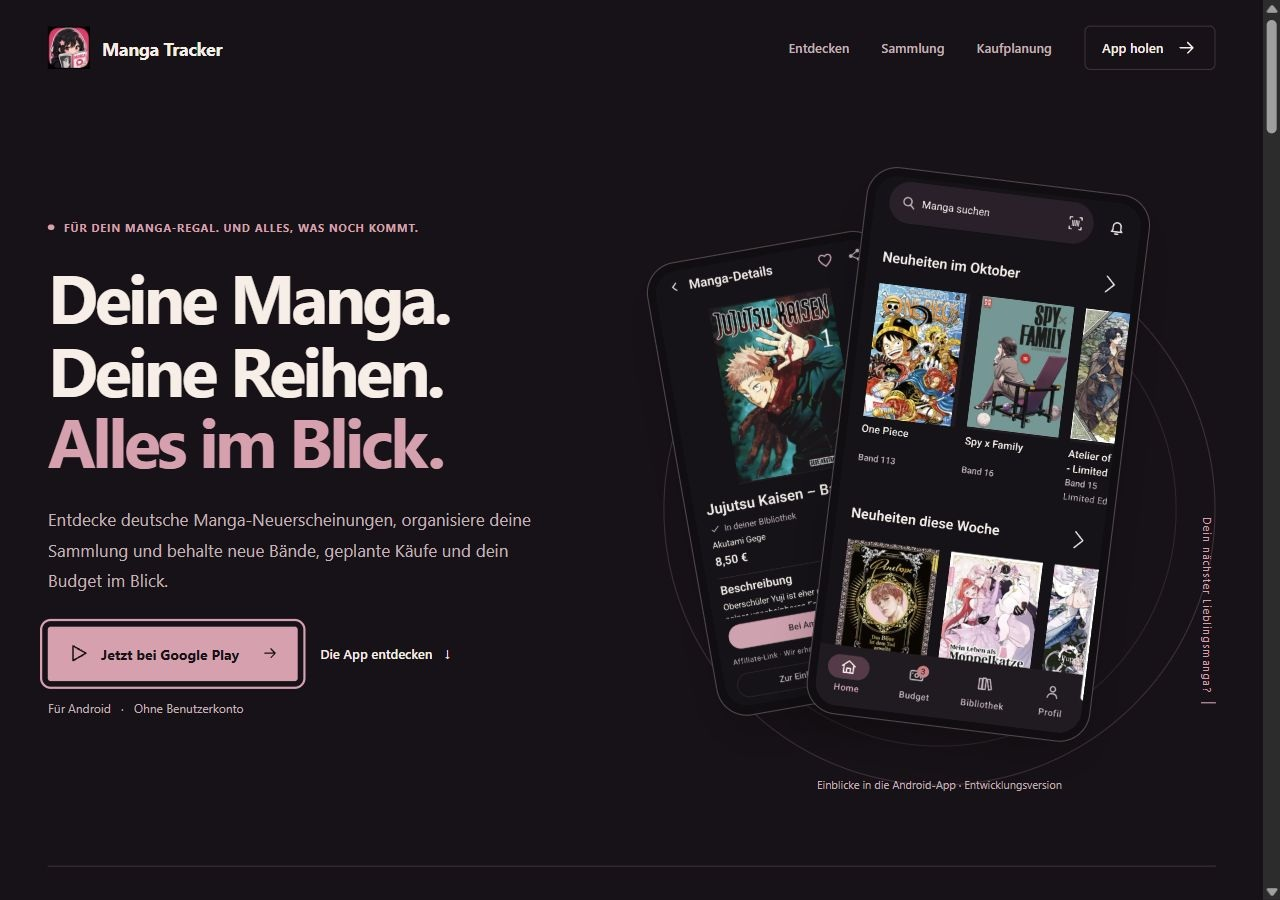
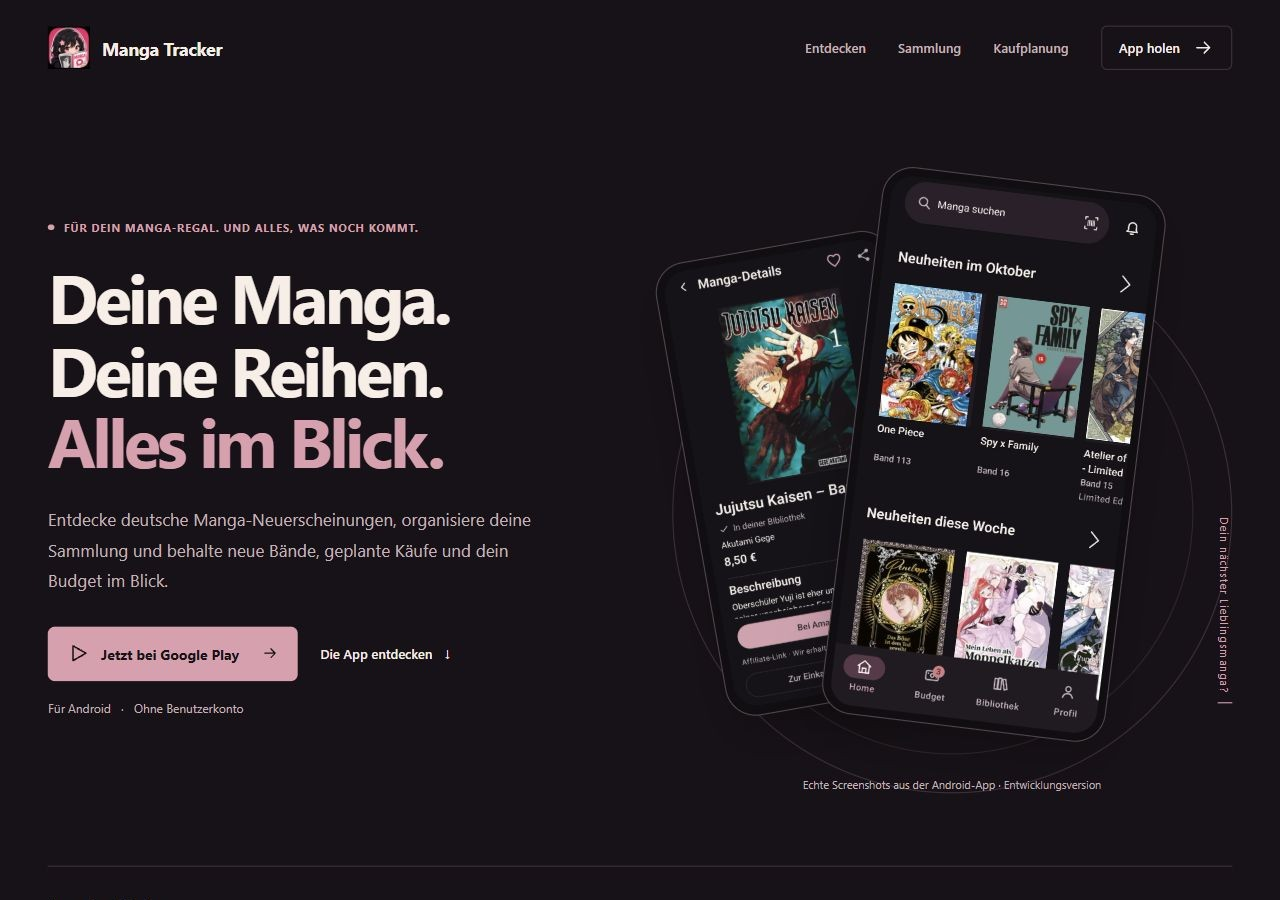
feat: add authentic notification screenshot and provenance labels [skip ci]

diff --git a/manga-share-worker/src/landing.js b/manga-share-worker/src/landing.js
@@ -2,7 +2,7 @@ import { LANDING_STYLES } from "./landing-styles.js";
 
 export const LANDING_ASSETS = new Set([
   "app-icon.png", "app-icon-source.png", "collection-mascot.webp", "releases.webp", "library.webp",
-  "series.webp", "series-status.webp", "detail.webp", "budget.webp", "shopping.webp",
+  "series.webp", "series-status.webp", "detail.webp", "budget.webp", "shopping.webp", "notifications.webp",
 ].map((name) => `/landing/${name}`));
 
 const PLAY = "https://play.google.com/store/apps/details?id=eu.realityforge.mangatracker";
@@ -64,7 +64,7 @@ export function renderLandingPage(origin) {
         <div class="visual-label" aria-hidden="true">Dein nächster Lieblingsmanga?</div>
         ${phone("detail", "Manga-Detailansicht von Jujutsu Kaisen in der Android-Entwicklungsversion", { className: "hero-back" })}
         ${phone("releases", "Echte Android-App: Neuheiten im Oktober mit One Piece und Spy x Family", { hero: true, className: "hero-front" })}
-        <figcaption>Einblicke in die Android-App · Entwicklungsversion</figcaption>
+        <figcaption>Echte Screenshots aus der Android-App · Entwicklungsversion</figcaption>
       </figure>
     </section>
     <div class="chapter-nav wrap" aria-label="Die App im Überblick"><span>Vom ersten Entdecken<br><strong>bis zum vollständigen Regal.</strong></span><a href="#entdecken"><b>01</b> Entdecken</a><a href="#sammlung"><b>02</b> Sammeln</a><a href="#planung"><b>03</b> Planen</a></div>
@@ -87,12 +87,12 @@ export function renderLandingPage(origin) {
 
     <section id="planung" class="planning wrap section" aria-labelledby="planning-title">
       <div class="section-heading"><p class="eyebrow">03 / Vorfreude mit einem Plan</p><h2 id="planning-title">Deine nächsten Käufe.<br><em>Gut geplant.</em></h2><p>Halte fest, welche Manga du als Nächstes kaufen möchtest. Ein Monatsbudget hilft dir, geplante Käufe und den verfügbaren Betrag zusammen zu sehen.</p></div>
-      <div class="planning-grid"><figure>${phone("budget", "Einkaufsliste für One Piece, Jujutsu Kaisen und Spy x Family mit einem Test-Monatsbudget von 60 Euro")}<figcaption>Einkaufsliste & Monatsbudget · Testdaten</figcaption></figure><div class="planning-copy"><h3>Deine Wunschbände.<br>Dein Monatsbudget.</h3><p>Speichere interessante Manga für später und ordne geplante Käufe einem Monat zu. So bleibt neben deinem nächsten Band auch dein Budget im Blick.</p><div class="notification-copy"><span class="tiny-label">Passend zu deiner Sammlung</span><h3>Neue Bände?<br>Bleib auf dem Laufenden.</h3><p>Persönliche Hinweise in der App helfen dir, neue Bände deiner Reihen und Änderungen an Erscheinungsterminen zu bemerken.</p><span class="preview-badge">Erweiterte Bandhinweise in Entwicklung</span><p class="small">Die erweiterten sammlungsbezogenen Bandhinweise werden weiterentwickelt.</p></div></div><figure class="notification-shot">${phone("shopping", "Echte Einkaufsliste mit geplanten Käufen von One Piece, Spy x Family und Jujutsu Kaisen")}<figcaption>Deine geplanten Käufe · Testdaten</figcaption></figure></div>
+      <div class="planning-grid"><figure>${phone("budget", "Einkaufsliste für One Piece, Jujutsu Kaisen und Spy x Family mit einem Test-Monatsbudget von 60 Euro")}<figcaption>Einkaufsliste & Monatsbudget · Testdaten</figcaption></figure><div class="planning-copy"><h3>Deine Wunschbände.<br>Dein Monatsbudget.</h3><p>Speichere interessante Manga für später und ordne geplante Käufe einem Monat zu. So bleibt neben deinem nächsten Band auch dein Budget im Blick.</p><div class="notification-copy"><span class="tiny-label">Passend zu deiner Sammlung</span><h3>Neue Bände?<br>Bleib auf dem Laufenden.</h3><p>Persönliche Hinweise in der App helfen dir, neue Bände deiner Reihen und Änderungen an Erscheinungsterminen zu bemerken.</p><span class="preview-badge">Erweiterte Bandhinweise in Entwicklung</span><p class="small">Die erweiterten sammlungsbezogenen Bandhinweise werden weiterentwickelt.</p></div></div><figure id="benachrichtigungen" class="notification-shot">${phone("notifications", "Echter App-Screenshot: Benachrichtigungen für One Piece, Jujutsu Kaisen und Spy x Family mit simulierten Beispielmeldungen, Status und Terminen")}<figcaption>Echter App-Screenshot · Entwicklungsvorschau<br>Simulierte Beispieldaten: Meldungen, Status und Termine</figcaption></figure></div>
     </section>
 
     <section class="trust wrap section" aria-labelledby="trust-title"><div><p class="eyebrow">Für deine Sammlung gemacht</p><h2 id="trust-title">Deine Manga.<br><em>Deine Daten.</em></h2></div><dl><div><dt>Ohne Benutzerkonto</dt><dd>Starte mit deiner Sammlung, ohne ein Konto anzulegen.</dd></div><div><dt>Auf deinem Gerät</dt><dd>Bibliothek, Einkaufsliste und Budget werden lokal verwaltet.</dd></div><div><dt>Kostenlos nutzbar</dt><dd>Entdecken, sammeln und planen – kostenlos mit der Android-App.</dd></div><div><dt>Für deutsche Manga-Sammler</dt><dd>Deutsche Ausgaben und Neuerscheinungen stehen im Mittelpunkt.</dd></div></dl></section>
     <section id="download" class="download wrap" aria-labelledby="download-title"><div class="download-copy"><img class="download-icon" src="/landing/app-icon.png" alt="Originales Manga-Tracker-App-Icon" width="192" height="192" loading="lazy"><p class="eyebrow">Dein Regal hat noch Platz für Geschichten.</p><h2 id="download-title">Bereit für deinen<br><em>nächsten Band?</em></h2><p>Manga Tracker begleitet deine Sammlung – vom ersten Entdecken bis zum nächsten Manga im Regal.</p>${cta()}<p class="small">Die aktuell verfügbare Version findest du bei Google Play.</p></div><img class="mascot" src="/landing/collection-mascot.webp" alt="" width="683" height="1024" loading="lazy" decoding="async"></section>
-    <p class="version-note wrap">Die App-Screenshots zeigen die Android-Entwicklungsversion 1.0.1-compose mit Beispieldaten. Darstellung und Funktionen können vom aktuellen Google-Play-Release abweichen. Vorschaufunktionen sind entsprechend gekennzeichnet.</p>
+    <p class="version-note wrap">Alle Screenshots wurden direkt in der echten Android-App aufgenommen. Sie zeigen die Android-Entwicklungsversion 1.0.1-compose mit Beispieldaten. Darstellung und Funktionen können vom aktuellen Google-Play-Release abweichen. Vorschaufunktionen sind entsprechend gekennzeichnet.</p>
   </main>
   <footer class="footer wrap"><a class="brand" href="/" aria-label="Manga Tracker Startseite"><img src="/landing/app-icon.png" alt="" width="192" height="192"><span>Manga Tracker</span></a><p>Eine App von RealityForge GbR</p><nav aria-label="Rechtliches"><a href="https://realityforge.eu/legal-notice/">Impressum</a><a href="https://realityforge.eu/privacy-policy/">Datenschutz Website</a><a href="https://realityforge.eu/privacy-policy/manga-tracker/">Datenschutz App</a></nav></footer>
 </body></html>`;

diff --git a/manga-share-worker/test/landing.test.js b/manga-share-worker/test/landing.test.js
@@ -26,7 +26,11 @@ test("homepage works independently of unavailable API and assets bindings", asyn
       assert.match(html, /prefers-reduced-motion:reduce/);
       assert.match(html, /a:focus-visible/);
       assert.doesNotMatch(html, /<script\b|<iframe\b|<form\b|google-analytics|googletagmanager|fonts\.googleapis|fbq\(/i);
-      assert.doesNotMatch(html, /Hanako|notifications\.webp/);
+      assert.doesNotMatch(html, /Hanako/);
+      assert.match(html, /Alle Screenshots wurden direkt in der echten Android-App aufgenommen/);
+      assert.match(html, /Echte Screenshots aus der Android-App/);
+      assert.match(html, /src="\/landing\/notifications\.webp"/);
+      assert.match(html, /Echter App-Screenshot · Entwicklungsvorschau<br>Simulierte Beispieldaten: Meldungen, Status und Termine/);
       const expectedOrigin = origin.startsWith("http:") ? "https://mangatracker.de" : origin;
       assert.ok(html.includes(`<link rel="canonical" href="${expectedOrigin}/">`));
       assert.ok(html.includes(`property="og:image" content="${expectedOrigin}/landing/app-icon-source.png"`));
@@ -80,7 +84,7 @@ test("only approved static assets are served, with GET/HEAD, security headers an
 
 test("screenshot provenance checksums match optimized assets; original app icons remain unchanged", () => {
   const manifest = JSON.parse(readFileSync(new URL("../docs/landing-assets.json", import.meta.url)));
-  assert.equal(manifest.length, 7);
+  assert.equal(manifest.length, 8);
   for (const asset of manifest) {
     const path = `/landing/${asset.file}`;
     assert.ok(LANDING_ASSETS.has(path));

diff --git a/manga-share-worker/src/landing-styles.js b/manga-share-worker/src/landing-styles.js
@@ -718,7 +718,11 @@ h3 {
     grid-template-columns:.85fr 1.15fr
   }
   .notification-shot {
-    display:none
+    display:block;
+    grid-column:1/-1;
+    justify-self:center;
+    width:250px;
+    margin-top:0
   }
   .notification-copy {
     margin-top:30px

diff --git a/manga-share-worker/docs/landing-review.md b/manga-share-worker/docs/landing-review.md
@@ -11,6 +11,8 @@ Die Startseite verwendet die App-Farben #171217, #211A22, #D7A0AF,
 drei Kapitel für Entdecken/Sammeln/Planen und die originale App-Figur bilden
 den Seitenaufbau. Alle Bildinhalte stammen aus der App; keine neu erzeugten
 Illustrationen, erfundenen Oberflächen, Bewertungen oder Nutzerzahlen.
+Am Hero und im allgemeinen Screenshot-Hinweis ist ausdrücklich erkennbar,
+dass alle Screenshots direkt in der echten Android-App aufgenommen wurden.
 
 Die Trust-Texte beziehen sich auf die tatsächlich vorhandenen Kernfunktionen:
 Neuerscheinungen, lokale Bibliothek, Einkaufsliste und Budget. Der öffentliche
@@ -84,13 +86,36 @@ Hanako wird auf der Landingpage nicht verwendet.
 | `detail.webp` | Jujutsu Kaisen, Band 1, ISBN 9782889510825 |
 | `budget.webp` | Monatsbudget und tatsächliche Test-Kaufplanung |
 | `shopping.webp` | Die drei geplanten Testkäufe |
+| `notifications.webp` | Echte Benachrichtigungsansicht mit isolierten, simulierten Beispielmeldungen |
 
-Der reale Benachrichtigungseingang blieb für diese Testsammlung leer. Es wurde
-kein gefüllter Eingang erfunden oder aus manuell verfassten Meldungen erzeugt.
-Der installierte normale App-Pfad verwendet `pushEnabled=true`; sein lokaler
-Legacy-Recommendation-Refresh ist deshalb deaktiviert. Eine Änderung an diesem
-Android-Verhalten gehört nicht zum Website-Auftrag. Die Landingpage beschreibt
-die Hinweise, verwendet aber keinen Benachrichtigungs-Screenshot.
+Der Nutzer hat anschließend einen gefüllten Benachrichtigungs-Screenshot mit
+simulierten Beispieldaten ausdrücklich angefordert. Der ausführende Codex-Chat
+„Prüfe PR-Kette vor Integration“ im Projekt Androidstudio-Manga-Tracker hat ihn
+am 12.10.2026 um 12:37:29 CEST auf demselben Samsung aufgenommen. Verwendet
+wurde dieselbe installierte Debug-App und derselbe APK-Fingerprint wie oben.
+Die echte `NotificationScreen` mit Room/Paging und Original-Artwork wurde in
+einer isolierten In-Memory-Testfixture verwendet; das Bild wurde nicht montiert
+oder nachgezeichnet. Original-PNG: 1080×2400, SHA-256
[1 lines of base64/hex data omitted]
+
+Sichtbare Beispielinhalte: One Piece 111 (fehlend), Jujutsu Kaisen 29
+(Einkaufsliste), Spy x Family 15 (Sammlung), ein Collector-Arc-Achievement,
+One Piece 89 (Terminverschiebung), Jujutsu Kaisen 27 (fehlend), Spy x Family 14
+(Einkaufsliste) und ein teilweise sichtbares weiteres Achievement. Cover und
+Figuren sind echte VLB-/App-Assets. Meldungen, Status, Achievement-Vergaben,
+relative Zeiten und die Terminverschiebung sind simuliert. Insbesondere die
+Termine 15./29.10.2026 zu One Piece 89 sind keine reale Verlagsankündigung.
+Die Bildunterschrift nennt ausdrücklich „Echter App-Screenshot“ und
+„Simulierte Beispieldaten: Meldungen, Status und Termine“.
+
+Der Screenshot-Agent bestätigt: persönliche Debug-Daten wurden nicht ersetzt;
+die isolierte Fixture und temporären Gerätedateien wurden entfernt. Persönliche
+Datenbank, WAL, Preferences und Datastores blieben unverändert, abgesehen von
+zulässigen Android-Activity-Metadaten und SQLite-SHM. Die ursprüngliche Test-APK
+wurde wiederhergestellt. Die Play-Store-App blieb unangetastet. Nachweise liegen
+im ignorierten Android-Verzeichnis `.tmp/website-notification-shot-20261012/`
+(`README.md`, `cover-provenance.json`, `final-proof.json`). Es wurde dafür kein
+Android-Produktcode geändert und kein Commit, Deployment oder Workflow gestartet.
 
 Originale Screenshots: 1080×2400. Zulässige Verarbeitung: Zuschnitt
 `(0,110)–(1080,2260)` entfernt Android-Status- und Systemnavigationsleiste;
@@ -99,7 +124,7 @@ Zahlenwert wurde retuschiert. Die CSS-Rahmen sind reine Website-Darstellung.
 Original- und Ergebnis-SHA-256, Zuschnitt, Dimensionen und Dateigrößen stehen in
 [landing-assets.json](landing-assets.json).
 
-Die private Debug-Sicherung liegt ausschließlich im ignorierten `.local/` und
+Für die ersten sieben Aufnahmen liegt die private Debug-Sicherung ausschließlich im ignorierten `.local/` und
 gehört nicht in Git oder die öffentlichen Assets. Nach der Aufnahme wurden
 alle elf gesicherten Datenbank-/Preferences-Dateien byteweise identisch
 wiederhergestellt. Die Debug-App wurde danach gestoppt. Keine Neuinstallation;
@@ -118,14 +143,19 @@ Vorschau: `http://127.0.0.1:4173/`. Sie verwendet denselben `handleRequest`
 wie der Worker und lokale Asset-Dateien. Die Startseite bleibt API-unabhängig;
 eine lokal geöffnete Manga-Detailseite liest die bestehende öffentliche API.
 Der Server bindet ausschließlich an Loopback, verwendet keine Cloudflare-
-Preview-Deployments und startet keine Actions. Er wird nach der QA beendet;
-für eine eigene Designreview kann er mit obigem Befehl erneut gestartet werden.
+Preview-Deployments und startet keine Actions. Für die laufende Designreview
+bleibt der lokale Server im Hintergrund geöffnet. Falls er später beendet wird,
+kann er mit obigem Befehl erneut gestartet werden.
 
 Browserprüfung in Chrome bei **320, 360, 390, 412, 768, 1280 und 1920 CSS-Pixeln**:
 kein horizontaler Überlauf; Hero-Download sichtbar. Wegen des bestehenden
 Browserzooms wurden die tatsächlichen CSS-Breiten jeweils per DOM gemessen,
 nicht aus der angeforderten Fenstergröße angenommen. Ergebnisse:
 [responsive.json](review/responsive.json).
+Nach Einbau des Benachrichtigungsbilds wurden dieselben sieben Breiten erneut
+geprüft: kein horizontaler Überlauf, das Bild und seine Kennzeichnung auch auf
+Tablet-Breiten sichtbar. Nachweis:
+[notification-responsive.json](review/notification-responsive.json).
 
 Gespeicherte Website-Aufnahmen: [Desktop](review/desktop.jpg),
 [Mobil](review/mobile.jpg) und [Sammlung mobil](review/collection-mobile.jpg).
@@ -149,4 +179,5 @@ Cache-Version, damit eine spätere freigegebene Veröffentlichung keine alte
 Startseite aus dem Cache zeigt.
 
 Offen: Designfreigabe und eine danach gesondert autorisierte Veröffentlichung.
-Ein gefüllter authentischer Benachrichtigungs-Screenshot steht nicht zur Verfügung.
+Der gefüllte Benachrichtigungs-Screenshot ist jetzt eingebunden; seine Daten
+sind als simulierte Beispiele gekennzeichnet.
